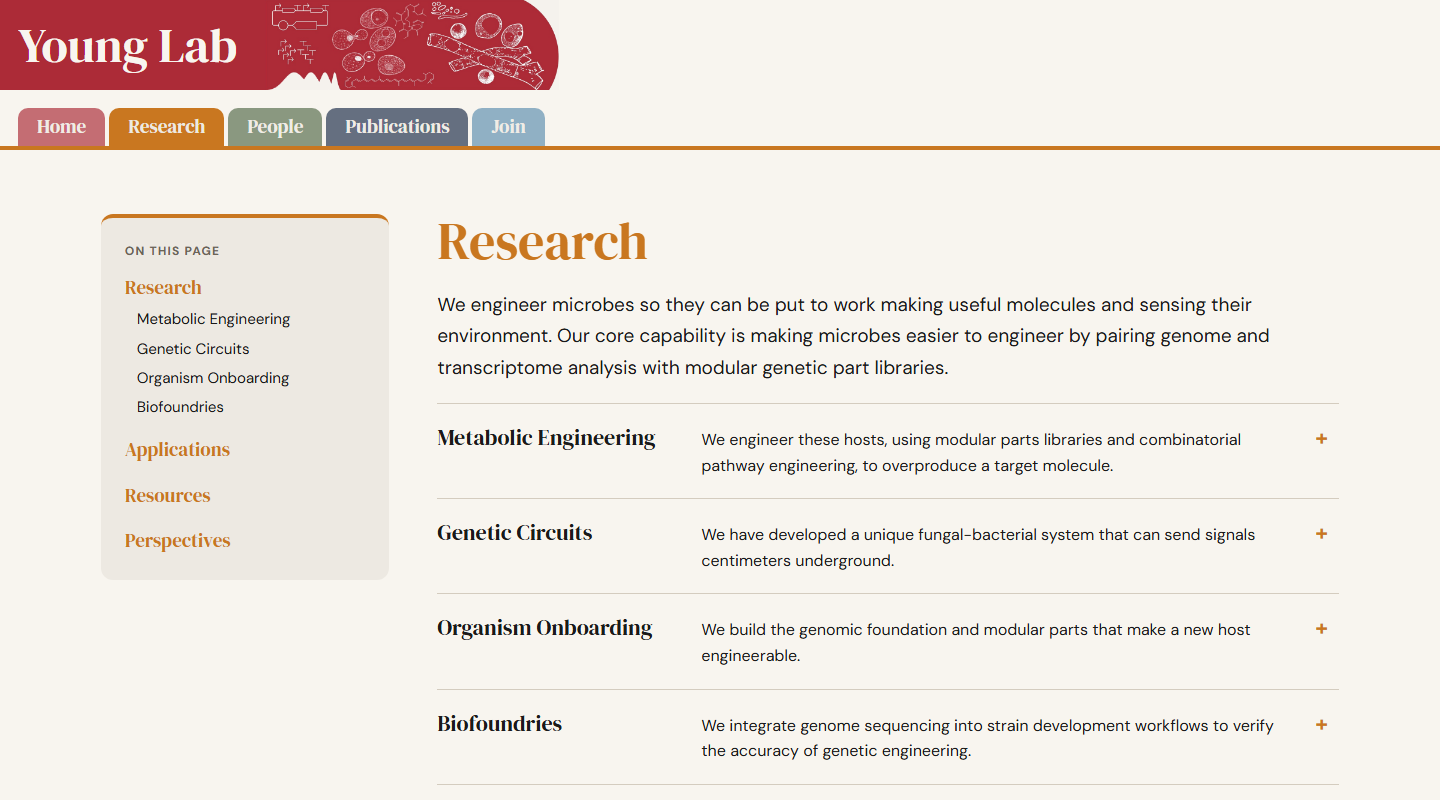
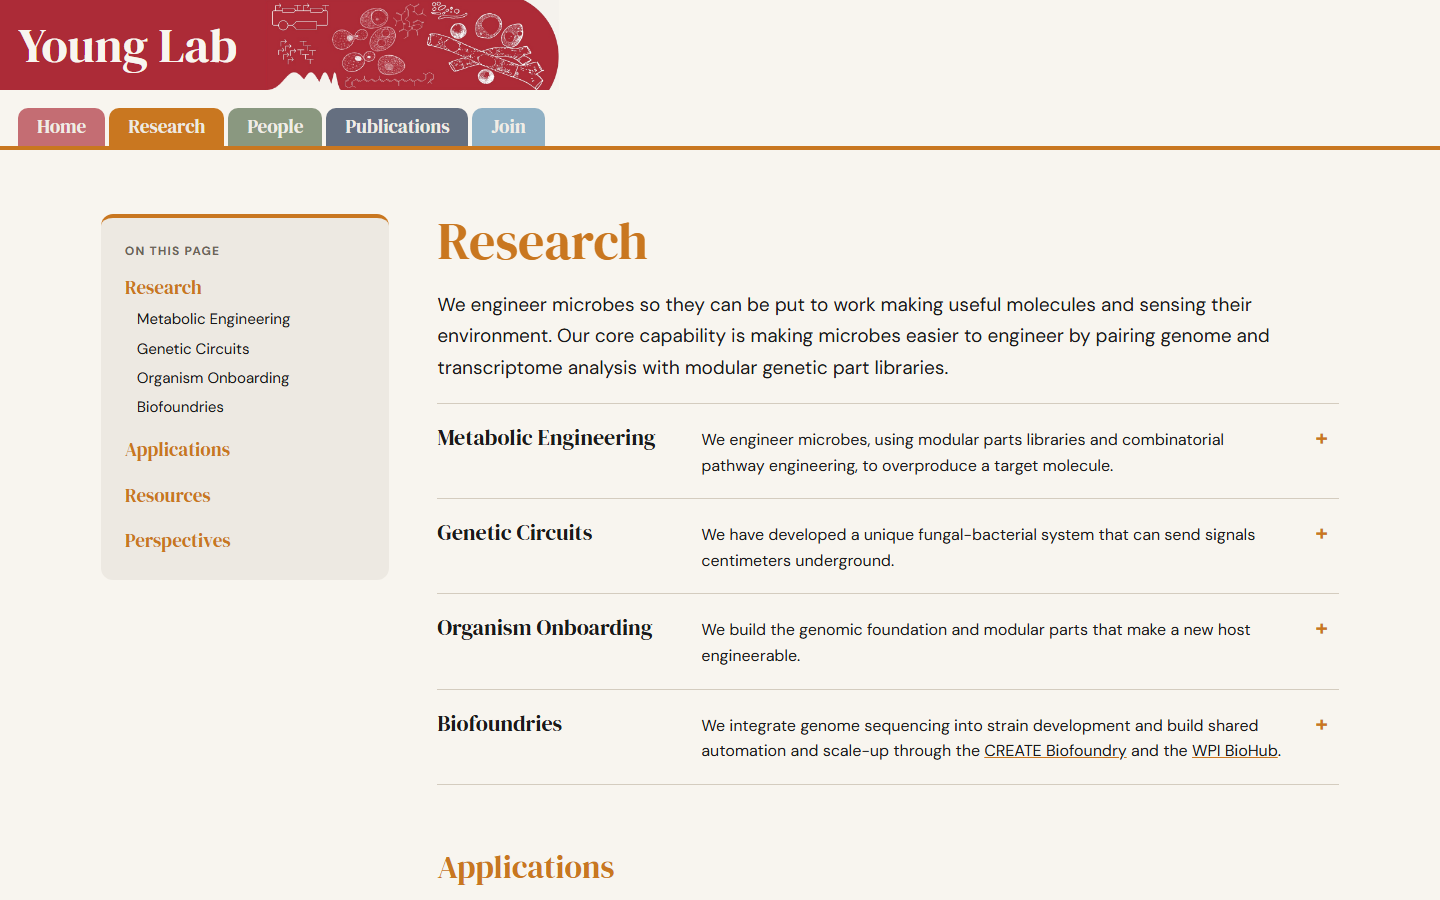
minor text edits

diff --git a/research.md b/research.md
@@ -29,9 +29,9 @@ toc:
 <div class="rows">
 
 <details class="row" id="metabolic-engineering">
-<summary><span class="row-term">Metabolic Engineering</span><span class="row-body">We engineer microbes, using modular parts libraries and combinatorial pathway engineering, to overproduce a target molecule.</span></summary>
+<summary><span class="row-term">Metabolic Engineering</span><span class="row-body">We use modular parts libraries and combinatorial pathway engineering to make a host overproduce a target molecule.</span></summary>
 <div class="row-more">
-<p>We engineer microbes, using modular parts libraries and combinatorial pathway engineering, to overproduce a target molecule.</p>
+<p>We use modular parts libraries and combinatorial pathway engineering to make a host overproduce a target molecule.</p>
 <p><b><i>Debaryomyces hansenii</i>.</b> Grows in extremely salty water on lignocellulosic biomass and overproduces fatty acids, which can support on-demand manufacture of oleochemicals like omega-3 fatty acids, <a href="https://doi.org/10.1002/bit.70350">alkanes</a>, or lubricants.</p>
 <p><b><i>Xanthophyllomyces dendrorhous</i>.</b> Grows on lignocellulosic biomass and overproduces <a href="https://doi.org/10.1007/s00253-024-13379-w">terpenes</a>, a diverse class of molecules that has long held promise for making medicines, fuels, and chemicals.</p>
 <p><b><i>Taxus chinensis</i>.</b> In collaboration with Prof. Susan Roberts we extend this to <a href="https://doi.org/10.1007/978-3-030-58271-5_1">plant cell culture</a>, engineering <a href="https://doi.org/10.1016/j.ymben.2026.102524">suspension cell lines to overproduce paclitaxel</a>, including <a href="https://doi.org/10.3389/fbioe.2023.1272811">CRISPR-guided control of supporting pathways</a>.</p>
@@ -58,7 +58,7 @@ toc:
 </details>
 
 <details class="row" id="biofoundries">
-<summary><span class="row-term">Biofoundries</span><span class="row-body">We integrate genome sequencing into strain development workflows to verify the accuracy of genetic engineering.</span></summary>
+<summary><span class="row-term">Biofoundries</span><span class="row-body">We integrate genome sequencing into strain development and build shared automation and scale-up through the <a href="https://createbiofoundries.org">CREATE Biofoundry</a> and the <a href="https://massbiohub.org">WPI BioHub</a>.</span></summary>
 <div class="row-more">
 <p><b>Software and bioinformatics.</b> We have developed processes to <a href="https://doi.org/10.1038/s41467-021-21656-9">integrate genome sequencing into strain development workflows</a> to verify accuracy of genetic engineering. This same approach can be used to <a href="https://doi.org/10.1021/acssynbio.3c00398">identify genetic engineering from complex environmental samples</a> in biosecurity contexts. The same assembly work reads yeasts that were never engineered at all: with Reeta Rao we resolved the <a href="https://doi.org/10.1093/g3journal/jkad093">genetic basis of probiotic yeast phenotypes</a> and the <a href="https://doi.org/10.1128/iai.00103-24">virulence and drug tolerance of <i>Candida auris</i></a>. With Claudia Vickers we applied PRYMETIME to engineered yeast, showing that <a href="https://doi.org/10.1021/acssynbio.3c00363">plasmid integration diversifies a strain</a>. We also <a href="https://doi.org/10.1021/acssynbio.1c00188">curated synthetic biology knowledge</a> from the literature into a searchable system, combining <a href="https://doi.org/10.1021/acssynbio.1c00611">text mining</a> with <a href="https://doi.org/10.1021/acssynbio.1c00225">curation principles drawn from the SBOL iGEM data set</a>, so that published designs and data could be found and reused.</p>
 <p><b>Automation.</b> We work on <a href="https://doi.org/10.1007/978-1-0716-5320-3_19">laboratory automation</a> for genetic engineering, and build it as shared infrastructure through the <a href="https://createbiofoundries.org">CREATE Biofoundry</a> &mdash; the NSF Center for Robust, Equitable and Accessible Technology for Next-Generation BioFoundries, with Mark Blenner at the University of Delaware and Howard Salis at Penn State. CREATE builds distributed automation and design capability for proteins, biosensors, and bacteriophage products, and puts those tools within reach of institutions that could not run a foundry of their own &mdash; primarily undergraduate institutions, HBCUs, minority-serving institutions, and women's colleges across the Northeast and Mid-Atlantic.</p>

diff --git a/index.md b/index.md
@@ -21,7 +21,7 @@ wrap: full
 <section class="section">
 <h2 class="center">Research Areas</h2>
 <div class="grid">
-<a class="card edge" href="{{ '/research/#metabolic-engineering' | relative_url }}"><span class="title">Metabolic Engineering</span><span>We engineer microbes, using modular parts libraries and combinatorial pathway engineering, to overproduce a target molecule.</span></a>
+<a class="card edge" href="{{ '/research/#metabolic-engineering' | relative_url }}"><span class="title">Metabolic Engineering</span><span>We use modular parts libraries and combinatorial pathway engineering to make a host overproduce a target molecule.</span></a>
 <a class="card edge" href="{{ '/research/#circuits' | relative_url }}"><span class="title">Genetic Circuits</span><span>We have developed a fungal-bacterial system that can send signals centimeters underground.</span></a>
 <a class="card edge" href="{{ '/research/#onboarding' | relative_url }}"><span class="title">Organism Onboarding</span><span>We build the genomic foundation and modular parts that make a new host engineerable.</span></a>
 <a class="card edge" href="{{ '/research/#biofoundries' | relative_url }}"><span class="title">Biofoundries</span><span>We integrate genome sequencing into strain development to verify the accuracy of genetic engineering.</span></a>
